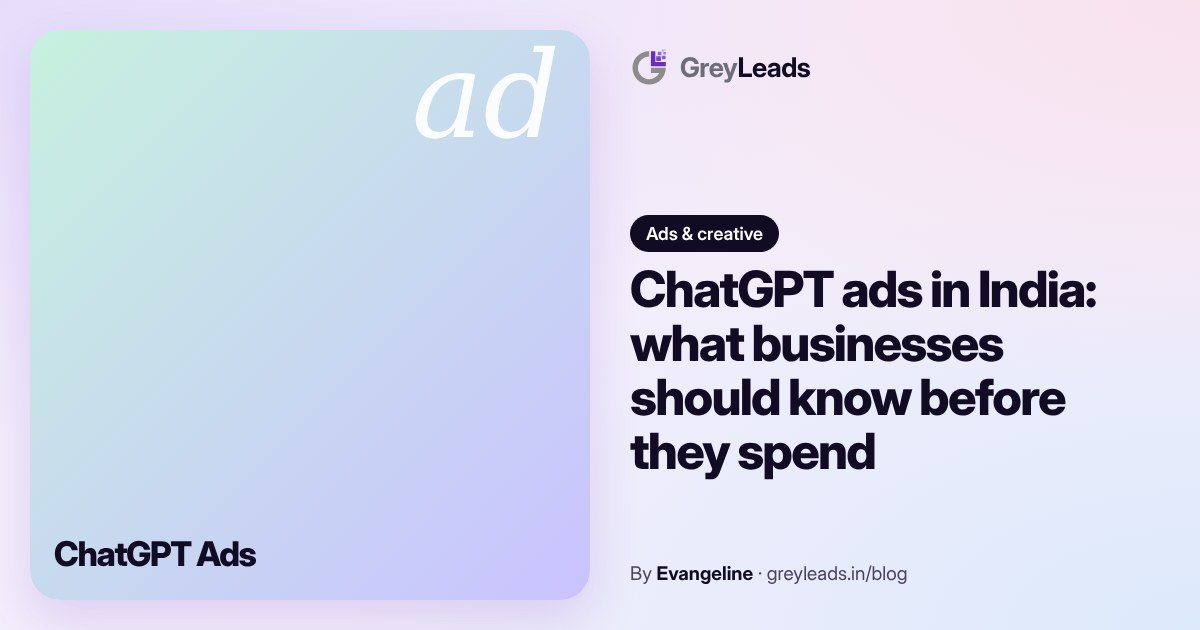
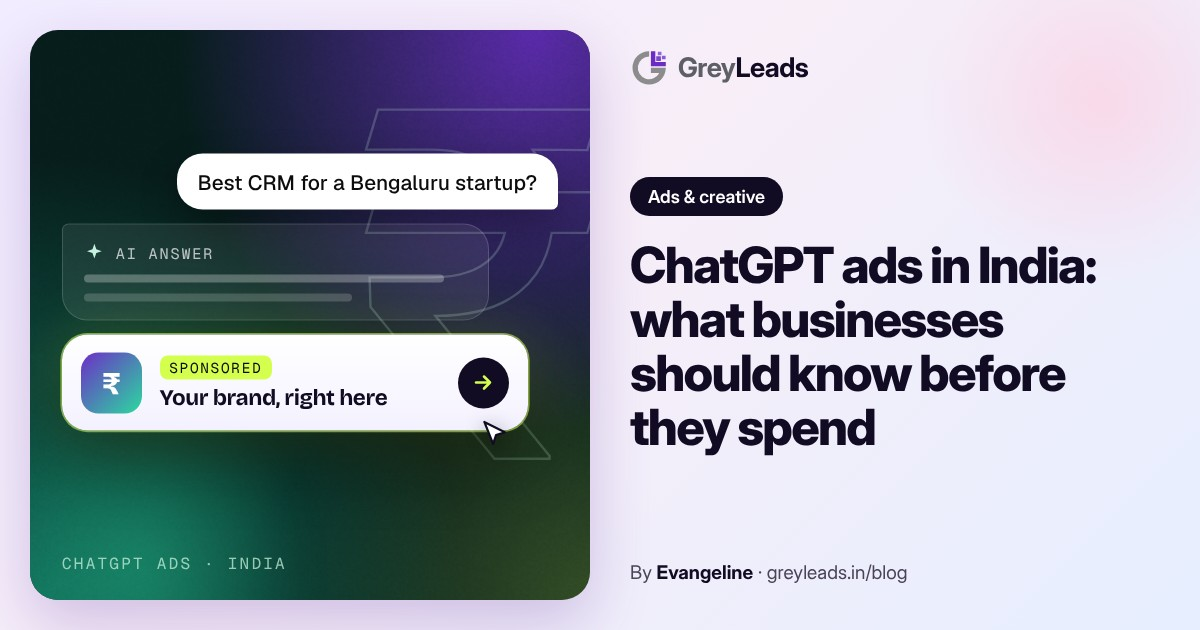
Premium cover for ChatGPT ads in India post
New dark chat-style cover (AI answer + sponsored ad card) on the post,
the blog card and the 1200x630 share image.

Claude-Session: https://claude.ai/code/session_011VrKseDXTWBW3EVgBQfE1U

diff --git a/blog.html b/blog.html
@@ -359,7 +359,8 @@ html.gl-rd-lock,html.gl-rd-lock body{overflow:hidden}
 <div class="gl-fchips" role="toolbar" aria-label="Filter articles by topic" style="display: grid; grid-template-columns: repeat(auto-fit, minmax(170px, 1fr)); gap: 10px; margin-top: 36px"><a href="#insights" data-filter="all" role="button" aria-pressed="true" class="gl-card gl-fchip" style="text-decoration: none; background: #FFFFFF; border-radius: 18px; padding: 12px 14px; display: flex; align-items: center; gap: 14px; box-shadow: 0 12px 30px rgba(76,29,149,0.05)"><span style="width: 36px; height: 36px; border-radius: 11px; flex: 0 0 36px; background: #120B24; display: inline-flex; align-items: center; justify-content: center"><svg width="22" height="22" viewBox="0 0 24 24" fill="none" stroke="#FFFFFF" stroke-width="2" stroke-linecap="round" stroke-linejoin="round" aria-hidden="true"><rect x="3" y="3" width="7" height="7" rx="1.5"></rect><rect x="14" y="3" width="7" height="7" rx="1.5"></rect><rect x="3" y="14" width="7" height="7" rx="1.5"></rect><rect x="14" y="14" width="7" height="7" rx="1.5"></rect></svg></span><span style="font-family: 'Bricolage Grotesque', sans-serif; font-weight: 700; font-size: 16px">All topics</span></a><a href="#insights" data-filter="AI search" role="button" aria-pressed="false" class="gl-card gl-fchip" style="text-decoration: none; background: #FFFFFF; border-radius: 18px; padding: 12px 14px; display: flex; align-items: center; gap: 14px; box-shadow: 0 12px 30px rgba(76,29,149,0.05)"><span style="width: 36px; height: 36px; border-radius: 11px; flex: 0 0 36px; background: #6D2EC7; display: inline-flex; align-items: center; justify-content: center"><svg width="22" height="22" viewBox="0 0 24 24" fill="none" stroke="#FFFFFF" stroke-width="2" stroke-linecap="round" stroke-linejoin="round" aria-hidden="true"><circle cx="11" cy="11" r="6"></circle><path d="M20 20l-4.5-4.5"></path></svg></span><span style="font-family: 'Bricolage Grotesque', sans-serif; font-weight: 700; font-size: 16px">AI search</span></a><a href="#insights" data-filter="Websites" role="button" aria-pressed="false" class="gl-card gl-fchip" style="text-decoration: none; background: #FFFFFF; border-radius: 18px; padding: 12px 14px; display: flex; align-items: center; gap: 14px; box-shadow: 0 12px 30px rgba(76,29,149,0.05)"><span style="width: 36px; height: 36px; border-radius: 11px; flex: 0 0 36px; background: #3B82F6; display: inline-flex; align-items: center; justify-content: center"><svg width="22" height="22" viewBox="0 0 24 24" fill="none" stroke="#FFFFFF" stroke-width="2" stroke-linecap="round" stroke-linejoin="round" aria-hidden="true"><path d="M8 6l-6 6 6 6M16 6l6 6-6 6"></path></svg></span><span style="font-family: 'Bricolage Grotesque', sans-serif; font-weight: 700; font-size: 16px">Websites</span></a><a href="#insights" data-filter="Ads &amp; creative" role="button" aria-pressed="false" class="gl-card gl-fchip" style="text-decoration: none; background: #FFFFFF; border-radius: 18px; padding: 12px 14px; display: flex; align-items: center; gap: 14px; box-shadow: 0 12px 30px rgba(76,29,149,0.05)"><span style="width: 36px; height: 36px; border-radius: 11px; flex: 0 0 36px; background: #EC4899; display: inline-flex; align-items: center; justify-content: center"><svg width="22" height="22" viewBox="0 0 24 24" fill="none" stroke="#FFFFFF" stroke-width="2" stroke-linecap="round" stroke-linejoin="round" aria-hidden="true"><path d="M12 20h9"></path><path d="M16.5 3.5a2.1 2.1 0 0 1 3 3L7 19l-4 1 1-4z"></path></svg></span><span style="font-family: 'Bricolage Grotesque', sans-serif; font-weight: 700; font-size: 16px">Ads &amp; creative</span></a><a href="#insights" data-filter="Lead generation" role="button" aria-pressed="false" class="gl-card gl-fchip" style="text-decoration: none; background: #FFFFFF; border-radius: 18px; padding: 12px 14px; display: flex; align-items: center; gap: 14px; box-shadow: 0 12px 30px rgba(76,29,149,0.05)"><span style="width: 36px; height: 36px; border-radius: 11px; flex: 0 0 36px; background: #F59E0B; display: inline-flex; align-items: center; justify-content: center"><svg width="22" height="22" viewBox="0 0 24 24" fill="none" stroke="#FFFFFF" stroke-width="2" stroke-linecap="round" stroke-linejoin="round" aria-hidden="true"><circle cx="12" cy="12" r="8"></circle><circle cx="12" cy="12" r="4"></circle></svg></span><span style="font-family: 'Bricolage Grotesque', sans-serif; font-weight: 700; font-size: 16px">Lead generation</span></a><a href="#insights" data-filter="Branding" role="button" aria-pressed="false" class="gl-card gl-fchip" style="text-decoration: none; background: #FFFFFF; border-radius: 18px; padding: 12px 14px; display: flex; align-items: center; gap: 14px; box-shadow: 0 12px 30px rgba(76,29,149,0.05)"><span style="width: 36px; height: 36px; border-radius: 11px; flex: 0 0 36px; background: #22C55E; display: inline-flex; align-items: center; justify-content: center"><svg width="22" height="22" viewBox="0 0 24 24" fill="none" stroke="#FFFFFF" stroke-width="2" stroke-linecap="round" stroke-linejoin="round" aria-hidden="true"><path d="M20.8 4.6a5.5 5.5 0 0 0-7.8 0L12 5.7l-1-1.1a5.5 5.5 0 0 0-7.8 7.8l1 1.1L12 21l7.8-7.5 1-1.1a5.5 5.5 0 0 0 0-7.8z"></path></svg></span><span style="font-family: 'Bricolage Grotesque', sans-serif; font-weight: 700; font-size: 16px">Branding</span></a></div><div class="gl-fstatus" hidden style="margin-top: 18px; display: flex; align-items: center; gap: 12px; flex-wrap: wrap; font-size: 15px; color: #4A4360">Showing <strong class="gl-fname" style="color: #120B24"></strong> articles <button type="button" class="gl-fclear" style="border: 0; background: #F1EAFF; color: #6D2EC7; font-weight: 600; font-size: 14px; padding: 8px 14px; border-radius: 999px; cursor: pointer">Show all</button></div>
 <div style="display: grid; grid-template-columns: repeat(auto-fill, minmax(320px, 1fr)); gap: 24px; margin-top: 64px">
 <a href="/blog/chatgpt-ads-india" data-topic="Ads &amp; creative" class="gl-card gl-post-card" style="text-decoration: none; display: flex; flex-direction: column; gap: 18px">
-<div aria-hidden="true" style="height: 240px; border-radius: 26px; position: relative; overflow: hidden; background: linear-gradient(135deg, #C6F1DE, #C9C2FF); display: flex; align-items: flex-end; padding: 24px; box-sizing: border-box"><span style="position: absolute; right: 22px; top: 10px; font-family: 'Instrument Serif', serif; font-style: italic; font-size: 110px; line-height: 1; color: rgba(255,255,255,0.88)">ad</span><span style="font-family: 'Bricolage Grotesque', sans-serif; font-weight: 800; font-size: 34px; letter-spacing: -0.04em; color: #120B24; line-height: 1; max-width: 70%">ChatGPT Ads</span></div>
+<div aria-hidden="true" style="height: 240px; border-radius: 26px; position: relative; overflow: hidden; background: #071E1C; background-image: radial-gradient(at 90% 0%, rgba(109,46,199,0.85) 0, transparent 50%), radial-gradient(at 0% 100%, rgba(18,120,98,0.9) 0, transparent 55%), radial-gradient(at 100% 100%, rgba(212,255,79,0.22) 0, transparent 40%)"><span style="position: absolute; inset: 0; background-image: url(/assets/grain.png); opacity: 0.12; mix-blend-mode: overlay"></span><span style="position: absolute; right: -4%; top: 50%; transform: translateY(-54%); font-family: 'Instrument Serif', serif; font-size: 300px; line-height: 1; color: transparent; -webkit-text-stroke: 1.5px rgba(198,241,222,0.22)">&#8377;</span><span style="position: absolute; left: -10%; bottom: -30%; width: 60%; height: 70%; border-radius: 50%; background: radial-gradient(closest-side, rgba(43,217,160,0.35), transparent); filter: blur(10px)"></span><span style="position: absolute; left: 20px; right: 20px; top: 46%; transform: translateY(-50%); max-width: 430px; display: flex; flex-direction: column; gap: 9px; font-family: 'Geist', sans-serif"><span style="align-self: flex-end; max-width: 78%; background: #FFFFFF; color: #0C0C0D; border-radius: 16px 16px 4px 16px; padding: 9px 13px; font-size: 13px; font-weight: 500; line-height: 1.3; box-shadow: 0 10px 24px rgba(0,0,0,0.3)">Best CRM for a Bengaluru startup?</span><span style="width: 86%; box-sizing: border-box; background: rgba(255,255,255,0.08); border: 1px solid rgba(255,255,255,0.16); border-radius: 4px 16px 16px 16px; padding: 11px 13px; display: flex; flex-direction: column; gap: 7px"><span style="display: flex; align-items: center; gap: 7px; font-family: 'Geist Mono', monospace; font-size: 9.5px; letter-spacing: 0.12em; text-transform: uppercase; color: rgba(255,255,255,0.7)"><svg width="13" height="13" viewBox="0 0 24 24" fill="#C6F1DE"><path d="M12 1.5l2.2 6.3 6.3 2.2-6.3 2.2L12 18.5l-2.2-6.3L3.5 10l6.3-2.2z"></path></svg>AI answer</span><span style="height: 5px; width: 94%; border-radius: 3px; background: rgba(255,255,255,0.28)"></span><span style="height: 5px; width: 70%; border-radius: 3px; background: rgba(255,255,255,0.18)"></span></span><span style="position: relative; width: 94%; box-sizing: border-box; background: linear-gradient(180deg, #FFFFFF, #F4F1FF); border-radius: 16px; padding: 11px 12px; display: flex; align-items: center; gap: 11px; box-shadow: 0 0 0 1px rgba(212,255,79,0.55), 0 18px 40px rgba(0,0,0,0.45), 0 0 42px rgba(212,255,79,0.22)"><span style="flex: 0 0 38px; width: 38px; height: 38px; border-radius: 11px; background: linear-gradient(135deg, #6D2EC7, #2BD9A0); display: inline-flex; align-items: center; justify-content: center; color: #FFFFFF; font-family: 'Bricolage Grotesque', sans-serif; font-weight: 800; font-size: 20px">&#8377;</span><span style="flex: 1; min-width: 0; display: flex; flex-direction: column; gap: 3px"><span style="align-self: flex-start; font-family: 'Geist Mono', monospace; font-size: 9px; letter-spacing: 0.12em; text-transform: uppercase; color: #0C0C0D; background: #D4FF4F; border-radius: 5px; padding: 2px 6px">Sponsored</span><span style="font-family: 'Bricolage Grotesque', sans-serif; font-weight: 700; font-size: 14px; letter-spacing: -0.02em; color: #120B24; line-height: 1.15">Your brand, right here</span></span><span style="flex: 0 0 32px; width: 32px; height: 32px; border-radius: 50%; background: #120B24; display: inline-flex; align-items: center; justify-content: center"><svg width="15" height="15" viewBox="0 0 24 24" fill="none" stroke="#D4FF4F" stroke-width="2.6" stroke-linecap="round" stroke-linejoin="round"><path d="M5 12h14M13 6l6 6-6 6"></path></svg></span><svg width="22" height="22" viewBox="0 0 24 24" style="position: absolute; right: 10px; bottom: -14px; filter: drop-shadow(0 3px 6px rgba(0,0,0,0.4))"><path d="M5 3l14 7-6 2-2 6z" fill="#FFFFFF" stroke="#120B24" stroke-width="1.5" stroke-linejoin="round"></path></svg></span></span>
+<span style="position: absolute; left: 20px; bottom: 16px; font-family: 'Geist Mono', monospace; font-size: 10px; letter-spacing: 0.14em; text-transform: uppercase; color: rgba(198,241,222,0.75)">ChatGPT ads &middot; India</span></div>
 <div style="font-family: 'Geist Mono', monospace; font-size: 12px; letter-spacing: 0.08em; text-transform: uppercase; color: #6E6585">Ads &amp; creative · 8 min read</div>
 <div style="font-family: 'Bricolage Grotesque', sans-serif; font-weight: 700; font-size: 25px; letter-spacing: -0.03em; line-height: 1.15">ChatGPT ads in India: what businesses should know before they spend</div>
 </a>

diff --git a/blog/chatgpt-ads-india.html b/blog/chatgpt-ads-india.html
@@ -201,6 +201,7 @@ html.gl-rd-lock,html.gl-rd-lock body{overflow:hidden}
 .gl-art-crumbs{font-family:'Geist Mono',monospace;font-size:12px;letter-spacing:.08em;text-transform:uppercase;color:#6E6585;display:flex;flex-wrap:wrap;gap:10px;margin-bottom:28px}
 .gl-art-crumbs a{text-decoration:none}
 .gl-art-cover{margin-bottom:8px}
+@media(min-width:760px){.gl-art-cover .gl-cv-stack{zoom:1.3;left:36px !important}}@media(max-width:560px){.gl-art-cover .gl-cv-stack{top:41% !important;zoom:.9;gap:7px !important}.gl-art-cover .gl-cv-label{display:none}}
 .gl-art-rel{margin-top:36px;padding:22px 24px;border-radius:22px;background:#F1EAFF;display:flex;flex-wrap:wrap;align-items:center;gap:10px 14px}
 .gl-art-rel span{font-family:'Geist Mono',monospace;font-size:12px;letter-spacing:.08em;text-transform:uppercase;color:#6E6585}
 .gl-art-rel a{background:#FFF;color:#6D2EC7;text-decoration:none;font-weight:600;font-size:15px;padding:9px 16px;border-radius:999px;box-shadow:0 6px 16px rgba(76,29,149,.08)}
@@ -325,7 +326,8 @@ html.gl-rd-lock,html.gl-rd-lock body{overflow:hidden}
 </div>
 <main><article class="gl-art">
 <nav class="gl-art-crumbs" aria-label="Breadcrumb"><a href="/">Home</a><span aria-hidden="true">/</span><a href="/blog">Blog</a><span aria-hidden="true">/</span><span style="color:#120B24">Ads &amp; creative</span></nav>
-<div class="gl-rd-cover gl-art-cover"><div aria-hidden="true" style="height: 100%; border-radius: 0; background: linear-gradient(135deg, #C6F1DE, #C9C2FF); position: relative; overflow: hidden; display: flex; align-items: flex-end; padding: 24px; box-sizing: border-box"><span style="position: absolute; right: 22px; top: 14px; font-family: 'Instrument Serif', serif; font-style: italic; font-size: 110px; line-height: 1; color: rgba(255,255,255,0.88)">ad</span><span style="font-family: 'Bricolage Grotesque', sans-serif; font-weight: 800; font-size: 34px; letter-spacing: -0.04em; color: #120B24; line-height: 1; max-width: 70%">ChatGPT Ads</span></div><span class="gl-rd-ctag">Ads &amp; creative</span></div>
+<div class="gl-rd-cover gl-art-cover"><div aria-hidden="true" style="height: 100%; border-radius: 0; position: relative; overflow: hidden; background: #071E1C; background-image: radial-gradient(at 90% 0%, rgba(109,46,199,0.85) 0, transparent 50%), radial-gradient(at 0% 100%, rgba(18,120,98,0.9) 0, transparent 55%), radial-gradient(at 100% 100%, rgba(212,255,79,0.22) 0, transparent 40%)"><span style="position: absolute; inset: 0; background-image: url(/assets/grain.png); opacity: 0.12; mix-blend-mode: overlay"></span><span style="position: absolute; right: -4%; top: 50%; transform: translateY(-54%); font-family: 'Instrument Serif', serif; font-size: 300px; line-height: 1; color: transparent; -webkit-text-stroke: 1.5px rgba(198,241,222,0.22)">&#8377;</span><span style="position: absolute; left: -10%; bottom: -30%; width: 60%; height: 70%; border-radius: 50%; background: radial-gradient(closest-side, rgba(43,217,160,0.35), transparent); filter: blur(10px)"></span><span class="gl-cv-stack" style="position: absolute; left: 20px; right: 20px; top: 46%; transform: translateY(-50%); max-width: 430px; display: flex; flex-direction: column; gap: 9px; font-family: 'Geist', sans-serif"><span style="align-self: flex-end; max-width: 78%; background: #FFFFFF; color: #0C0C0D; border-radius: 16px 16px 4px 16px; padding: 9px 13px; font-size: 13px; font-weight: 500; line-height: 1.3; box-shadow: 0 10px 24px rgba(0,0,0,0.3)">Best CRM for a Bengaluru startup?</span><span style="width: 86%; box-sizing: border-box; background: rgba(255,255,255,0.08); border: 1px solid rgba(255,255,255,0.16); border-radius: 4px 16px 16px 16px; padding: 11px 13px; display: flex; flex-direction: column; gap: 7px"><span style="display: flex; align-items: center; gap: 7px; font-family: 'Geist Mono', monospace; font-size: 9.5px; letter-spacing: 0.12em; text-transform: uppercase; color: rgba(255,255,255,0.7)"><svg width="13" height="13" viewBox="0 0 24 24" fill="#C6F1DE"><path d="M12 1.5l2.2 6.3 6.3 2.2-6.3 2.2L12 18.5l-2.2-6.3L3.5 10l6.3-2.2z"></path></svg>AI answer</span><span style="height: 5px; width: 94%; border-radius: 3px; background: rgba(255,255,255,0.28)"></span><span style="height: 5px; width: 70%; border-radius: 3px; background: rgba(255,255,255,0.18)"></span></span><span style="position: relative; width: 94%; box-sizing: border-box; background: linear-gradient(180deg, #FFFFFF, #F4F1FF); border-radius: 16px; padding: 11px 12px; display: flex; align-items: center; gap: 11px; box-shadow: 0 0 0 1px rgba(212,255,79,0.55), 0 18px 40px rgba(0,0,0,0.45), 0 0 42px rgba(212,255,79,0.22)"><span style="flex: 0 0 38px; width: 38px; height: 38px; border-radius: 11px; background: linear-gradient(135deg, #6D2EC7, #2BD9A0); display: inline-flex; align-items: center; justify-content: center; color: #FFFFFF; font-family: 'Bricolage Grotesque', sans-serif; font-weight: 800; font-size: 20px">&#8377;</span><span style="flex: 1; min-width: 0; display: flex; flex-direction: column; gap: 3px"><span style="align-self: flex-start; font-family: 'Geist Mono', monospace; font-size: 9px; letter-spacing: 0.12em; text-transform: uppercase; color: #0C0C0D; background: #D4FF4F; border-radius: 5px; padding: 2px 6px">Sponsored</span><span style="font-family: 'Bricolage Grotesque', sans-serif; font-weight: 700; font-size: 14px; letter-spacing: -0.02em; color: #120B24; line-height: 1.15">Your brand, right here</span></span><span style="flex: 0 0 32px; width: 32px; height: 32px; border-radius: 50%; background: #120B24; display: inline-flex; align-items: center; justify-content: center"><svg width="15" height="15" viewBox="0 0 24 24" fill="none" stroke="#D4FF4F" stroke-width="2.6" stroke-linecap="round" stroke-linejoin="round"><path d="M5 12h14M13 6l6 6-6 6"></path></svg></span><svg width="22" height="22" viewBox="0 0 24 24" style="position: absolute; right: 10px; bottom: -14px; filter: drop-shadow(0 3px 6px rgba(0,0,0,0.4))"><path d="M5 3l14 7-6 2-2 6z" fill="#FFFFFF" stroke="#120B24" stroke-width="1.5" stroke-linejoin="round"></path></svg></span></span>
+<span class="gl-cv-label" style="position: absolute; left: 20px; bottom: 16px; font-family: 'Geist Mono', monospace; font-size: 10px; letter-spacing: 0.14em; text-transform: uppercase; color: rgba(198,241,222,0.75)">ChatGPT ads &middot; India</span></div><span class="gl-rd-ctag">Ads &amp; creative</span></div>
 <div class="gl-rd-meta"><span>Ads &amp; creative</span><span aria-hidden="true">·</span><span>8 min read</span><span aria-hidden="true">·</span><time datetime="2026-10-16">16 Oct 2026</time></div>
 <h1 class="gl-rd-title">ChatGPT ads in India: what businesses should know before they spend</h1>
 <p class="gl-rd-dek">OpenAI now shows sponsored results below ChatGPT&#x27;s answers in India. Here&#x27;s who sees them, what they cost, who they suit and how to run a sensible first test.</p>
